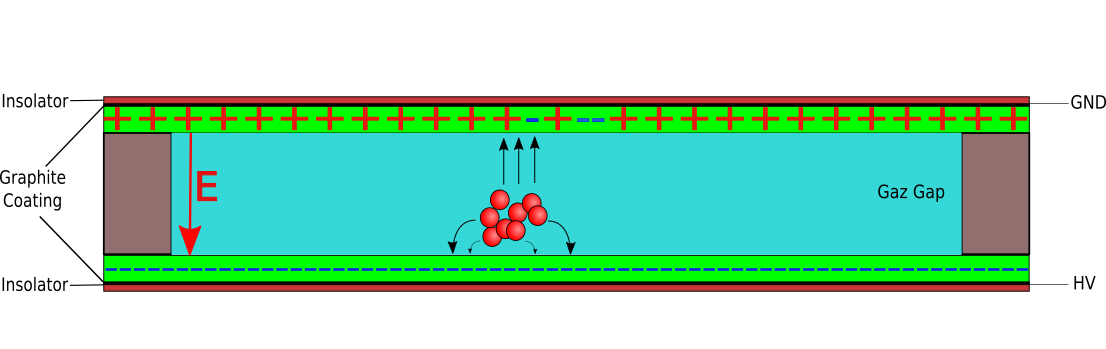
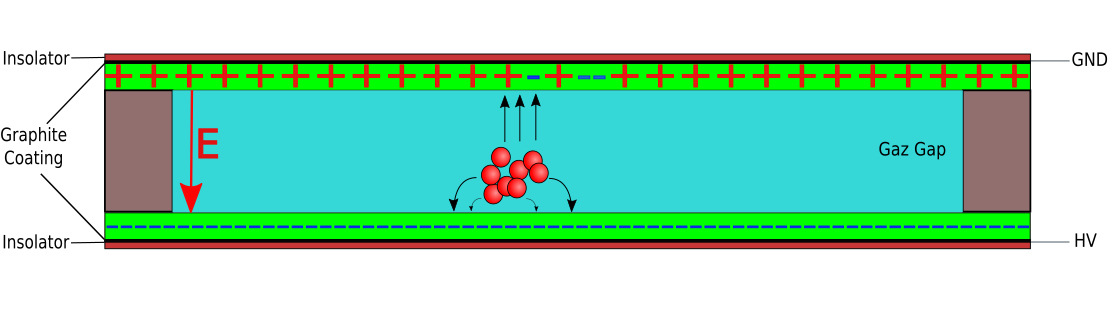
Better graphics and inserted in the text

diff --git a/RPC/RPC.tex b/RPC/RPC.tex
@@ -139,5 +139,22 @@ Les RPC repose sur la perte d'énergie par ionisation et excitation. Cette perte
 \end{figure}
 
 \subsection{Les modes de fonctionnement des RPC}
+Selon l'intensité du champ électrique appliqué  entre les électrodes il est possible de choisir le mode de fonctionnement. La composition du mélange gazeux est également un élément déterminant dans le mode de fonctionnement des chambres. On distingue généralement deux modes de fonctionnement; le mode avalanche et le mode streamer.
 
+\subsubsection{Le mode avalanche}
+Le mode avalanche est le premier mode de fonctionnement qui apparait lorsqu'on augment la tension entre les électrodes.L'ionisation du gaz crée quelques pairs d'ion-électrons qui sont ensuite accéléré par le champ électrique. Les électrons, qui sont beaucoup plus rapides que les ions de par eur masse plus faible vont à leur tours ioniser les molécules du gaz. Cette multiplication des charges est appellé avalanche. Ce déplacement va créée par effet capacitif un signal de l'ordre de la nanoseconde qui peut etre récolter. Les charges vont ensuite atteindres les électrodes et s'y accumuler, et vont être neutarliser en quelques millisecondes grâce au courant fourni par le générateur de haute tension appliquant la différence de potentiel (cf.fig\ref{avalanche}). Le temps mort de ce mode est donc assez faible et permet donc une détection efficace des particules mêle à des flux assez elevée, la résistivité du matériaux est déterminante pour ce temps de neutralisation des charges.
+
+
+\begin{figure}[ht!]
+\centering
+\subfloat[Des molècules du gaz sont ionisé par le passage d'une particule.]{\includegraphics[width=.49\linewidth]{RPC/avalanche-streamer-1.png}\label{avalanche-1}}
+\hfill
+\subfloat[La taille de l'avalanche influence le champ électrique local de la couche de gaz.]{\includegraphics[width=.49\linewidth]{RPC/avalanche-2.png}\label{avalanche-2}}
+\\
+\subfloat[Les électrons atteignent l'anode. Les ions sont beaucoup plus lent ]{\includegraphics[width=.49\linewidth]{RPC/avalanche-3.png}\label{avalanche-3}}
+\hfill
+\subfloat[Les ions atteignent la cathode. Les charges de la couche résistive induise un temps mort.]{\includegraphics[width=.49\linewidth]{RPC/avalanche-4.png}\label{avalanche-4}}
+\caption{Vue schématique d'un développement d'une avalanche. Le champ électrique appliqué au électrode est noté $E_{0}$, les électrons sont en bleu et les ions en rouge.}
+\label{avalanche}
+\end{figure}
 
